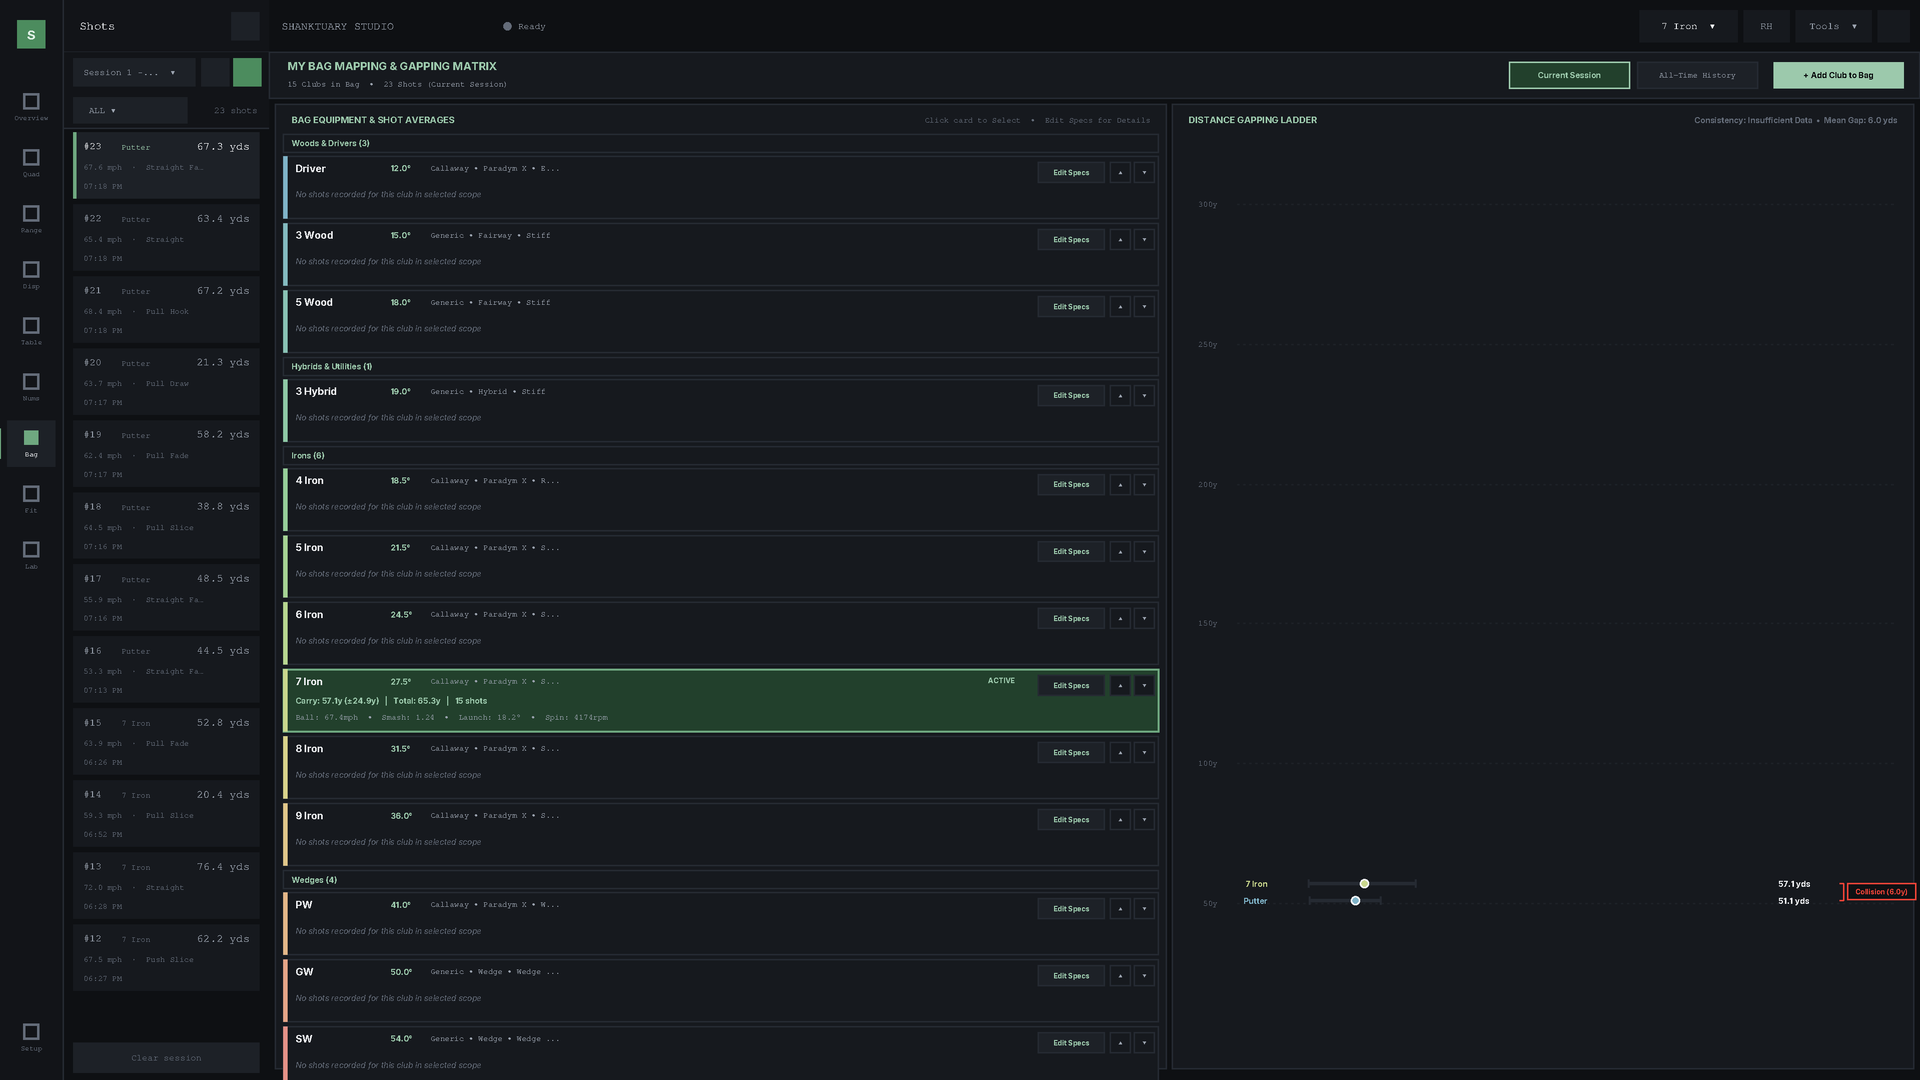
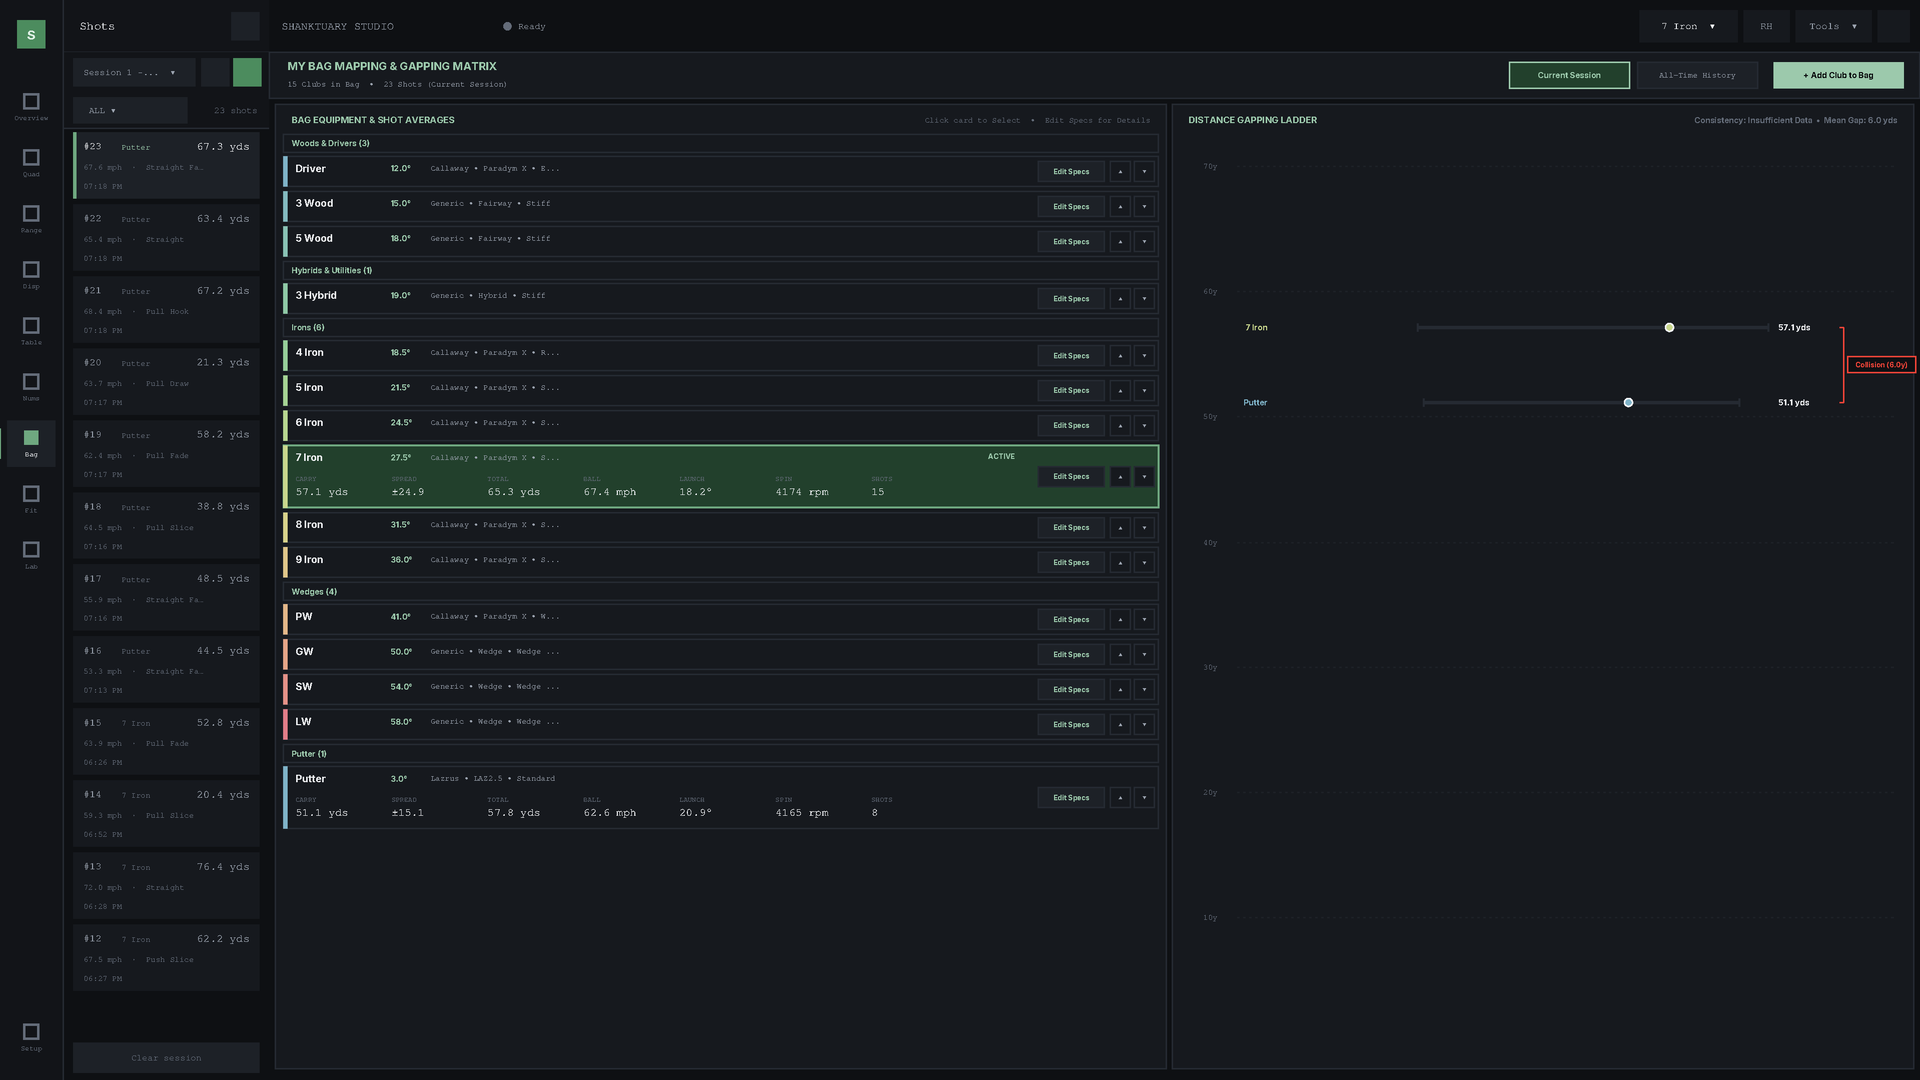
fix(bag): compact empty clubs, honest smash, data-fitted gapping ladder
Three problems, all visible with a normal session where one or two clubs
have been hit.

Empty clubs took a full 62px card to say "No shots recorded for this club
in selected scope". With 15 bag clubs and 2 hit, that is 13 identical
sentences occupying most of the pane and pushing the clubs that DO have
data off the bottom. Those rows are now compact (30px) and drop the label
entirely -- the absence of figures is the message. All 15 clubs now fit
without scrolling.

Club stats were a pipe-delimited run-on line ("Carry: 57.1y (+/-24.9y) |
Total: ... | 15 shots"). They are now caption-above-value cells matching
the rest of the app, and "+/-" became SPREAD, which does not require the
reader to know the convention.

Smash was printed as a per-club average even though the OGC model saturates
at these speeds -- both 7 Iron and Putter averaged exactly 1.2361, the
clamp constant. get_bag_club_stats() now reports smash_clamped, and the
cell is omitted rather than showing a constant dressed as a measurement.

The gapping ladder had a hardcoded 0-320 yard axis, so a bag topping out at
57 yards drew both bars squashed into the bottom sixth under five empty
gridlines. The axis now fits the data, with the gridline step chosen to
match (10/25/50 yds).

diff --git a/shanktuary_performance_studio.py b/shanktuary_performance_studio.py
@@ -980,6 +980,7 @@ class ShanktuaryApp:
                 "avg_total": 0.0,
                 "avg_ball_speed": 0.0, "avg_club_speed": 0.0,
                 "avg_smash": 0.0,
+                "smash_clamped": True,
                 "avg_launch": 0.0,
                 "avg_spin": 0.0,
                 "avg_offline": 0.0
@@ -1012,7 +1013,17 @@ class ShanktuaryApp:
             "avg_smash": sum(smashes) / count,
             "avg_launch": sum(launches) / count,
             "avg_spin": sum(spins) / count,
-            "avg_offline": sum(offlines) / count
+            "avg_offline": sum(offlines) / count,
+            # True when every contributing shot had a saturated OGC smash --
+            # the average is then a constant, not a measurement.
+            "smash_clamped": all(
+                self.compute_smash_confidence(
+                    float(s.get("ball_speed_meters_per_second") or 0.0),
+                    s.get("vertical_launch_angle_degrees"),
+                    s.get("total_spin_rpm"),
+                ).get("clamped", True)
+                for s in shots
+            ) if shots else True,
         }
 
     def extract_shot_metrics(self, s):
@@ -5418,7 +5429,13 @@ class ShanktuaryApp:
 
             for c in cat_clubs:
                 c_name = c.get("name", "")
-                card_h = 62
+                # A club with no shots has nothing to show on lines 2-3, so it
+                # gets a compact row. With 15 bag clubs and typically 1-2 hit
+                # in a session, full-height empty cards pushed the clubs that
+                # DO have data off the bottom of the pane.
+                _has_data = self.get_bag_club_stats(
+                    c_name, scope=self.bag_scope)["shot_count"] > 0
+                card_h = 62 if _has_data else 30
                 cy1 = curr_y
                 cy2 = cy1 + card_h
 
@@ -5454,11 +5471,14 @@ class ShanktuaryApp:
                         badge_x2 = cx2 - 130
                         badge_x1 = badge_x2 - 54
                         # Selected club is a STATE, not a caution -- accent it.
-                        self.canvas.create_rectangle(badge_x1, cy1 + 4, badge_x2, cy1 + 19, fill=theme.ACCENT_DEEP, outline="")
-                        self.canvas.create_text((badge_x1 + badge_x2) // 2, cy1 + 11, text="ACTIVE", fill=theme.ACCENT_TEXT, font=(theme.ui_font(), 7, "bold"))
+                        _by = cy1 + (card_h - 15) // 2 if card_h < 50 else cy1 + 4
+                        self.canvas.create_rectangle(badge_x1, _by, badge_x2, _by + 15, fill=theme.ACCENT_DEEP, outline="")
+                        self.canvas.create_text((badge_x1 + badge_x2) // 2, _by + 7, text="ACTIVE", fill=theme.ACCENT_TEXT, font=(theme.ui_font(), 7, "bold"))
 
                     # Action buttons: Edit Specs, Move Up, Move Down
-                    btn_ey1 = cy1 + 6
+                    # Centre the buttons in the row so they line up on both
+                    # the full-height and compact variants.
+                    btn_ey1 = cy1 + (card_h - 20) // 2
                     btn_ey2 = btn_ey1 + 20
                     edit_x1 = cx2 - 120
                     edit_x2 = cx2 - 54
@@ -5481,15 +5501,37 @@ class ShanktuaryApp:
                     # Line 2 & 3: Performance stats
                     stats = self.get_bag_club_stats(c_name, scope=self.bag_scope)
                     if stats["shot_count"] > 0:
-                        carry_str = f"Carry: {stats['avg_carry']:.1f}y (±{stats['std_carry']:.1f}y)"
-                        tot_str = f"Total: {stats['avg_total']:.1f}y"
-                        cnt_str = f"{stats['shot_count']} shots"
-                        self.canvas.create_text(name_x, cy1 + 31, text=f"{carry_str}   |   {tot_str}   |   {cnt_str}", fill=theme.ACCENT_TEXT, font=(theme.ui_font(), 8, "bold"), anchor="w")
-
-                        sub_stats = f"Ball: {stats['avg_ball_speed']:.1f}mph  •  Smash: {stats['avg_smash']:.2f}  •  Launch: {stats['avg_launch']:.1f}°  •  Spin: {stats['avg_spin']:.0f}rpm"
-                        self.canvas.create_text(name_x, cy1 + 48, text=sub_stats, fill=theme.TEXT_2, font=(theme.ui_font(), 8), anchor="w")
-                    else:
-                        self.canvas.create_text(name_x, cy1 + 38, text="No shots recorded for this club in selected scope", fill=theme.TEXT_3, font=(theme.ui_font(), 8, "italic"), anchor="w")
+                        # Caption-above-value pairs, matching the rest of the
+                        # app, instead of a pipe-delimited run-on line.
+                        cells = [
+                            ("CARRY", f"{stats['avg_carry']:.1f} yds"),
+                            ("SPREAD", f"±{stats['std_carry']:.1f}"),
+                            ("TOTAL", f"{stats['avg_total']:.1f} yds"),
+                            ("BALL", f"{stats['avg_ball_speed']:.1f} mph"),
+                            ("LAUNCH", f"{stats['avg_launch']:.1f}°"),
+                            ("SPIN", f"{stats['avg_spin']:.0f} rpm"),
+                            ("SHOTS", f"{stats['shot_count']}"),
+                        ]
+                        # Smash is a constant wherever the OGC model saturates,
+                        # so print it only when it carries information.
+                        if not stats.get("smash_clamped", True):
+                            cells.insert(4, ("SMASH", f"{stats['avg_smash']:.2f}"))
+                        cw_ = 96
+                        for ci, (cl, cv) in enumerate(cells):
+                            cxp = name_x + ci * cw_
+                            if cxp + cw_ > edit_x1 - 8:
+                                break
+                            self.canvas.create_text(cxp, cy1 + 30, text=cl,
+                                                    fill=theme.TEXT_3,
+                                                    font=(theme.ui_font(), 7),
+                                                    anchor="nw")
+                            self.canvas.create_text(cxp, cy1 + 41, text=cv,
+                                                    fill=theme.TEXT,
+                                                    font=(theme.ui_font(), 11),
+                                                    anchor="nw")
+                    # No else-branch: an empty club is a compact row and the
+                    # absence of figures is the message. Repeating "no shots"
+                    # on 13 of 15 clubs is noise, not information.
 
                 curr_y += card_h + 5
 
@@ -5504,10 +5546,17 @@ class ShanktuaryApp:
         ladder_top = y1 + 44
         ladder_bot = y1 + h - 26
         ladder_h = ladder_bot - ladder_top
+        # Scale the axis to the data instead of a fixed 0-320. A bag where the
+        # longest club carries 57 yds otherwise draws every bar squashed into
+        # the bottom sixth of the pane with five empty gridlines above it.
+        _carries = [c["avg_carry"] for c in self.calculate_bag_gapping(
+            scope=self.bag_scope)["clubs"]] or [0.0]
+        _hi = max(_carries)
         min_yds = 0.0
-        max_yds = 320.0
+        max_yds = 320.0 if _hi > 260 else max(60.0, _hi * 1.25)
 
-        grid_steps = [50, 100, 150, 200, 250, 300]
+        _step = 50 if max_yds > 240 else (25 if max_yds > 120 else 10)
+        grid_steps = list(range(_step, int(max_yds) + 1, _step))
         for yds in grid_steps:
             gy = ladder_bot - int(((yds - min_yds) / (max_yds - min_yds)) * ladder_h)
             self.canvas.create_line(x1 + 65, gy, x1 + w - 20, gy, fill=theme.SURFACE_2, dash=(2, 4))
